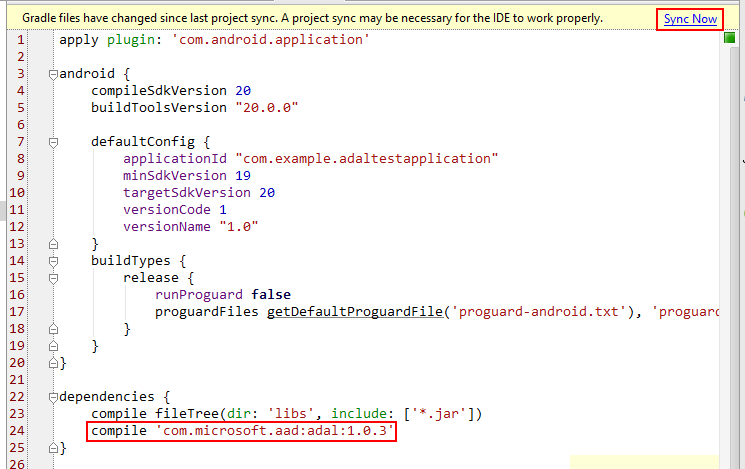
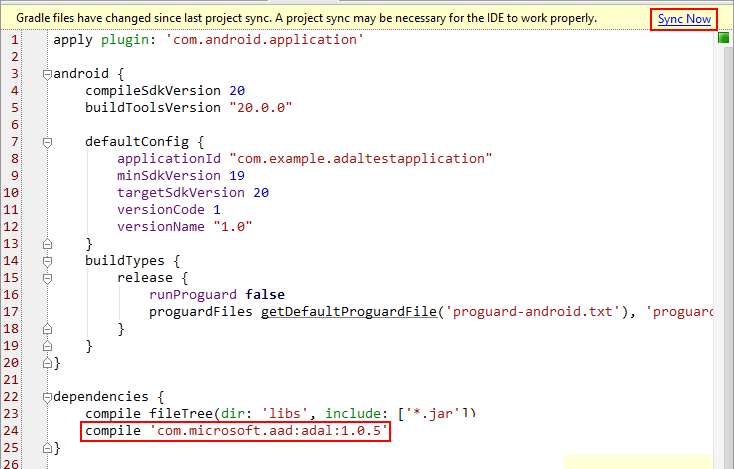
Updated lab to latest ADAL

diff --git a/O3654-4 Native Android Development with Office 365 APIs/02 Active Directory Authentication Library/hands-on-lab.md b/O3654-4 Native Android Development with Office 365 APIs/02 Active Directory Authentication Library/hands-on-lab.md
@@ -107,9 +107,9 @@ Android Studio, Eclipse and even Visual Studio with Xamarin for Android.
 
 02. Add the following line to the `dependencies` section:
 
-        compile 'com.microsoft.aad:adal:1.0.3'
+        compile 'com.microsoft.aad:adal:1.0.5'
 
-    This is a reference to [ADAL v1.0.3 in the Maven repository](http://mvnrepository.com/artifact/com.microsoft.aad/adal/1.0.3).
+    This is a reference to [ADAL v1.0.5 in the Maven repository](http://mvnrepository.com/artifact/com.microsoft.aad/adal/1.0.5).
 
 03. Android Studio will prompt you to perform a Gradle sync - click **Sync Now** to do so.
 
@@ -273,7 +273,7 @@ Now that we've got the library, let's add some code to authenticate a user.
     }
     ```
 
-10. Ok - we're ready to try it out. Launch the application on the emulator.
+10. Ok - we're ready to try it out. Launch the application in the emulator.
 
 11. When the app has launched, tap **Get Access Token** to start the auth process.
 
@@ -330,7 +330,7 @@ To authenticate the user without prompting them for credentials, we use the `acq
     ```
 
     In order to support "silent" authentication, we must cache the User's Id when they authenticate successfully.
-    The User Id is not sensitive information and can be cached without encryption.
+    The User Id is not sensitive information and can be stored without encryption.
 
 03. Add the following code to the end of the `onCreate` function:
 
@@ -382,7 +382,7 @@ To authenticate the user without prompting them for credentials, we use the `acq
     
     ![](img/0070_error_no_cached_user_id.png)
 
-    This fails because we haven't authenticated yet - there are no user Ids or refresh tokens cached yet.
+    This fails because we haven't authenticated yet and do not have a user Id.
 
 07. Tap **Get Access Token** and sign in to acquire a refresh token.
 
@@ -392,7 +392,7 @@ To authenticate the user without prompting them for credentials, we use the `acq
 
 The access token will expire in a few hours, but the refresh token will remain valid for a very long time.
 
-We do also need to store the User Id somewhere - currently we're storing it as a member variable on our activty,
+We do need to store the User Id somewhere - currently we're storing it as a member variable on our activty,
 but this will not serve for a real-world application. Instead we could store it in a database or using the
 [Shared Preferences](http://developer.android.com/reference/android/content/SharedPreferences.html) service.
 
